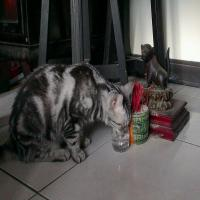
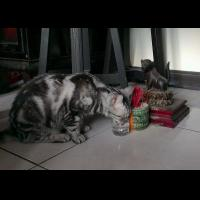
計算圖形資訊,依向縮放置中

diff --git a/image.php b/image.php
@@ -16,6 +16,7 @@
     echo "大小:".round($_FILES['photo']['size']/1024)."kb<br>";
     move_uploaded_file($_FILES['photo']['tmp_name'],'./img/'.$_FILES['photo']['name']);
     $filename="./img/".$_FILES['photo']['name'];
+
     $src_info=[
         'width'=>0,
         'height'=>0,
@@ -41,10 +42,19 @@
     }
     $src_info['width']=imagesx($src_img);
     $src_info['height']=imagesy($src_img);
+    $src_info['rate']=imagesy($src_img)/imagesx($src_img);
+    if($src_info['rate']<=1){
+        $src_info['direction']='橫向';
+    }else{
+        $src_info['direction']='直向';
+    }
 
     $dst_img=imagecreatetruecolor(200,200);
     $dst_info['width']=200;
     $dst_info['height']=200;
+
+    $white=imagecolorallocate($dst_img,255,255,255);
+    imagefill($dst_img,0,0,$white);
  }
 
 
@@ -56,6 +66,13 @@
     <meta name="viewport" content="width=device-width, initial-scale=1.0">
     <meta http-equiv="X-UA-Compatible" content="ie=edge">
     <title>圖形處理練習</title>
+    <style>
+        div{
+            width:500px;
+            margin:10px auto;
+            text-align:center;
+        }
+    </style>
     <link rel="stylesheet" href="style.css">
 </head>
 <body>
@@ -77,7 +94,22 @@
 
 if(isset($src_img) && isset($dst_img)){
 
-    imagecopyresampled($dst_img,$src_img,0,0,0,0,$dst_info['width'],$dst_info['height'],$src_info['width'],$src_info['height']);
+    if($src_info['direction']=='橫向'){
+
+        $dst_height=$dst_info['height']*$src_info['rate'];
+        $dst_width=$dst_info['width'];
+        $dst_y=($dst_info['height']-$dst_height)/2;
+        $dst_x=0;
+        
+    }else{
+        $dst_height=$dst_info['height'];
+        $dst_width=$dst_info['width']*(1/$src_info['rate']);
+        $dst_y=0;
+        $dst_x=($dst_info['width']-$dst_width)/2;
+
+    }
+    
+    imagecopyresampled($dst_img,$src_img,$dst_x,$dst_y,0,0,$dst_width,$dst_height,$src_info['width'],$src_info['height']);
     $dst_path="./dst/".$_FILES['photo']['name'];
     imagejpeg($dst_img,$dst_path);
 
